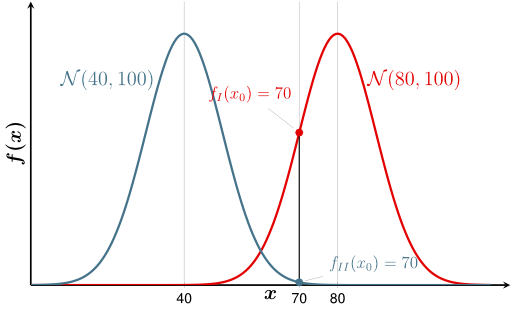
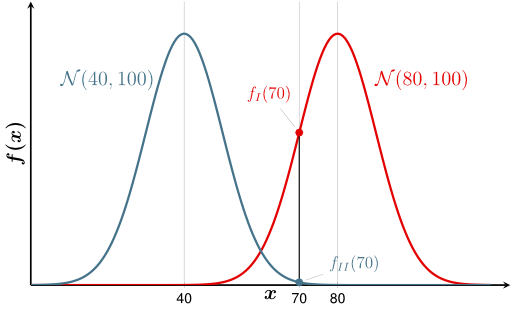
fixed mistake

diff --git a/tikz/lda-gauss-1/lda-gauss-1.tex b/tikz/lda-gauss-1/lda-gauss-1.tex
@@ -76,17 +76,17 @@ every axis label/.append style={font=\sffamily\footnotesize},
                   samples at={70},
                   mark=*,
                   mark options={scale=1, fill=red!90!black}] {gauss(80,100)}
-            node[pin={95:\large$f_I(x_0) = 70$}] {};
+            node[pin={95:\large$f_I(70)$}] {};
         \addplot+[plotB,
                   samples at={70},
                   mark=*,
                   mark options={scale=1, fill=cyan!50!black}] {gauss(40,100)}
-            node[pin={10:\large$f_{II}(x_0) = 70$}] {};
+            node[pin={10:\large$f_{II}(70)$}] {};
         \coordinate (a) at (axis cs:70,0.024);
         \draw[black,thick](a |- current plot begin) -- (a);
 
         % Add labels
-        \node[plotA,above] at (axis cs:100,0.03){\Large $\mathcal{N}(80, 100)$};
+        \node[plotA,above] at (axis cs:102,0.03){\Large $\mathcal{N}(80, 100)$};
         \node[plotB,above] at (axis cs:20,0.03){\Large $\mathcal{N}(40, 100)$};
       % \addlegendentry{$\mu=80,\enskip \sigma^2 = 100$}
       % \addlegendentry{$\mu=40,\enskip \sigma^2 = 100$}
